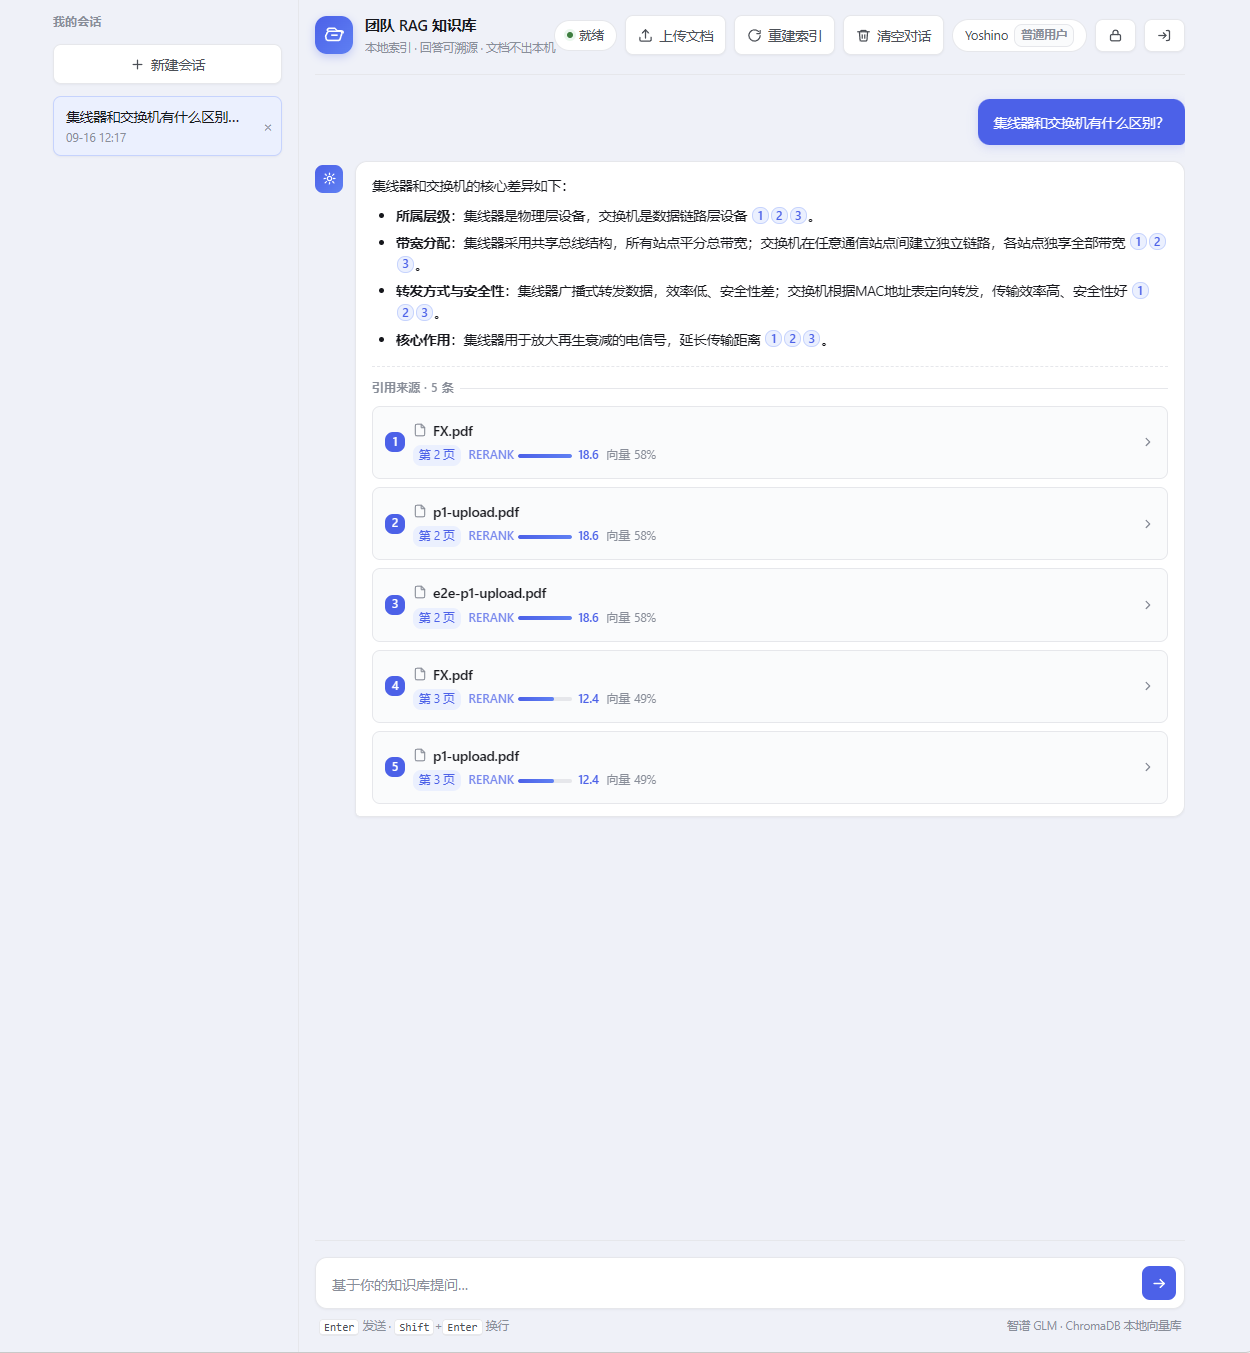
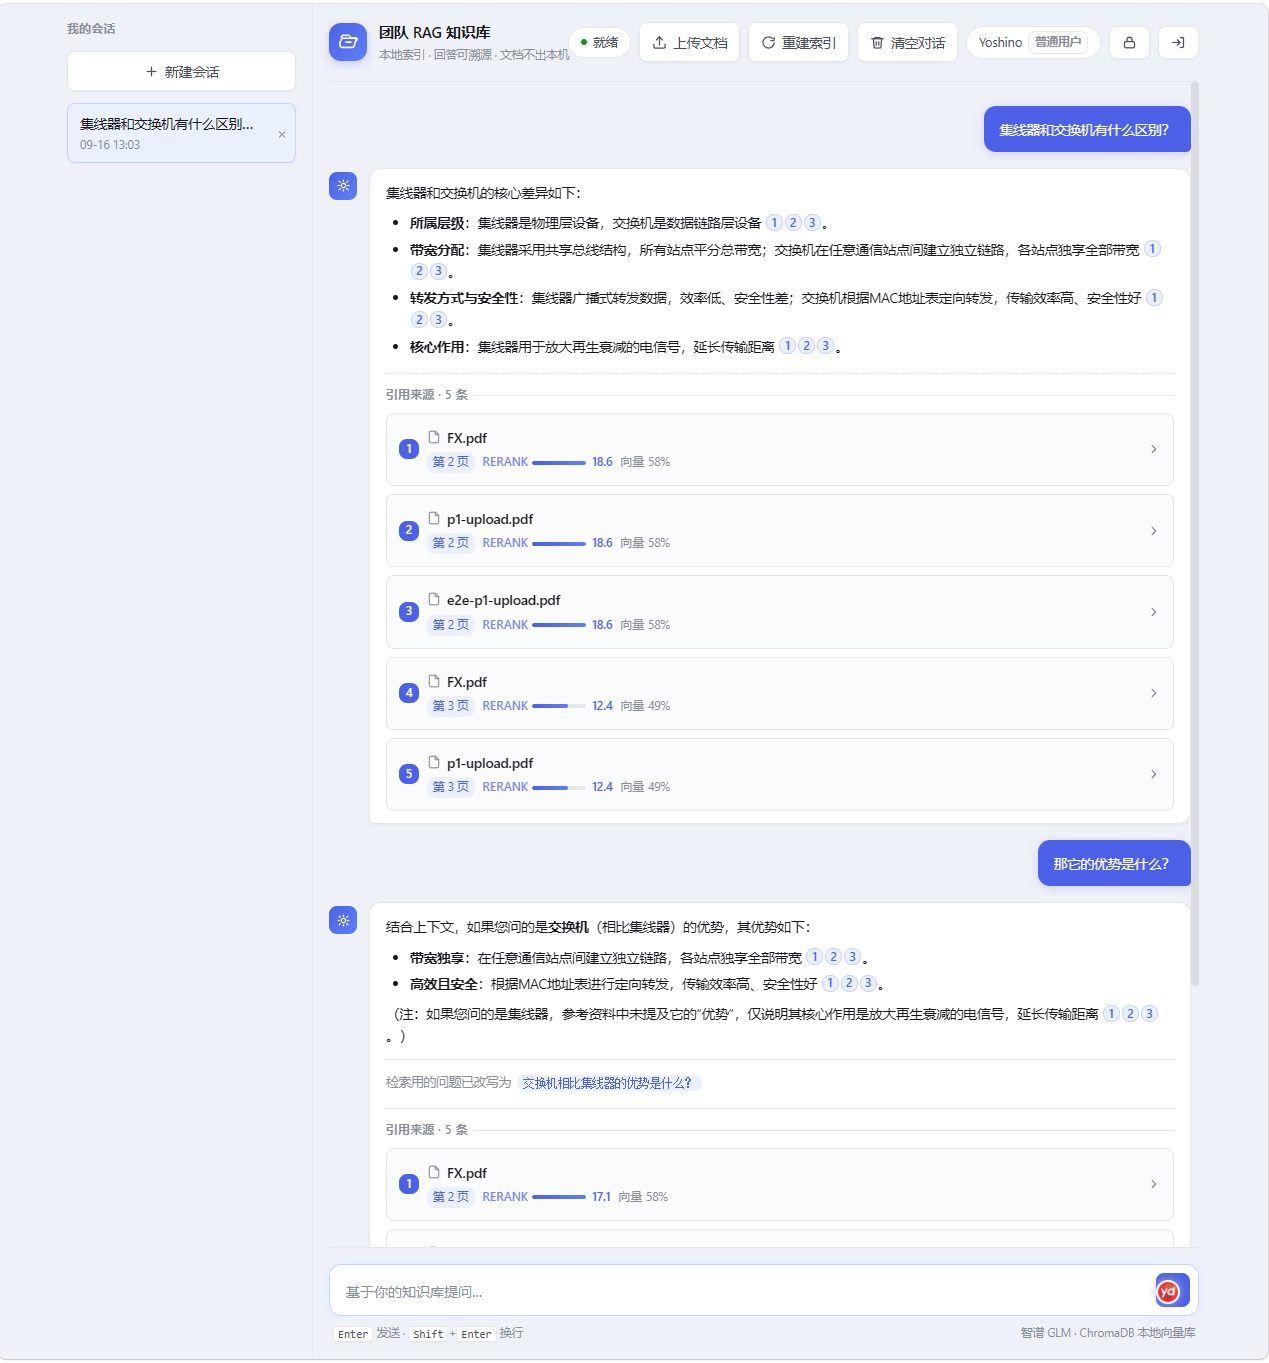
docs: README 演示文案与新截图对齐（并新增 backlog T9 记录"幽灵文档"）
新截图（`docs/demo.png`）的引用来源列出了**三份**文件（`FX.pdf` + `p1-upload.pdf` +
`e2e-p1-upload.pdf`），而 README 写的是「同一份 PDF（`FX.pdf`）上连续两问」——
文案与画面不符。改成按画面说话：

    上图是真实运行效果 —— 在一个含 `FX.pdf` 的知识库上连续两问：先问「集线器和交换机有什么区别？」，
    再**用指代追问**「那它的优势是什么？」。知识库里不止一份文档，所以引用来源会列出多份文件。

顺带排查了 README 其余位置：只有这一处写了演示场景（图片 alt 是「界面效果」、无场景断言；
`MAX_UPLOAD_SIZE` 那行里的"同一份预算"是上传体积，与演示无关，未动）。
另一处「引用来源 · 5 条」的**具体条数**我无法核对新图（模型看不了图），已软化为不带数字的
「引用来源」，避免把未验证的数字写死在文档里。

**守卫一条未碰**：`tests/test_docs.py::test_readme_demo_section_matches_screenshot` 要求的
六个功能词（集线器 / 交换机 / 改写 / RERANK / 向量 / 页码）逐条复核仍在同一小节内；
图片尺寸守卫（合法 PNG 且 ≥800×600）对新图同样通过。

同时把这次发现记进 `docs/optimization-backlog.md`（两仓库同构）作为 **T9**：
所谓"E2E 残留文件"其实**不在磁盘上**（清单与 `data/users/*` 里只剩 `FX.pdf`），
残留的是**向量库里的旧分块** —— 实测 `source` 元数据 `FX.pdf` 18 条 / `p1-upload.pdf` 6 条 /
`e2e-p1-upload.pdf` 6 条，于是引用来源会显示已不存在的文件。
应用自己的删除路径是清向量的（`documents.delete_document`、`ingest` 重灌前都调
`collection.delete(where={"source": ...})`）；根因是**绕过应用的清库**漏了
`storage/chroma.sqlite3`。按用户要求：**不动那两个工作区文件**，只登记问题。

只改文档与截图，无代码/测试改动；全量 p1 492 passed、p2 715 passed。

diff --git a/docs/optimization-backlog.md b/docs/optimization-backlog.md
@@ -36,6 +36,7 @@
 | T7 ✅ | rag `src/admin_api.py:159-181`；daa `src/admin_api.py:150-172`；rag `tests/test_admin_api.py:221-235` | 重置口令走 `payload.password` 分支时只校验长度 ≥6（`PasswordReset`），既不查强度、也不置 `must_change_password`，与 `create_user` 的「一次性口令必须首登改密」承诺不一致；测试 `test_reset_password_with_explicit_password` 把"显式口令立即生效"钉死 | 「管理员设的口令是一次性的」这条安全属性在重置路径上失效，管理员图省事设 `123456` 会长期有效——建议重置一律置 `must_change_password=True`（或至少跑 `password_strength_problem`），并同步改这条测试的断言。 |
 | T8 | daa `src/server.py:374-381`；`starlette/responses.py`（`FileResponse` 按扩展名猜 `media_type`）；daa `src/sandbox/image/Dockerfile:69`、`storage/session/artifacts/region_sales_bar.html` | `/api/artifact/{name}` 用 `FileResponse` 原样返回产物，`.html` 会被猜成 `text/html` **内联**返回，且全仓没有任何 `Content-Security-Policy` / `X-Content-Type-Options` / `Content-Disposition`（grep `add_middleware` 零命中） | 产物由模型生成的代码写入 `/out`（其输入又来自不可信的 CSV 内容），仓库里已经存在真实 `.html` 产物；任何人直接打开 `/api/artifact/x.html` 就在应用**同源**执行脚本，可读走 `localStorage.auth_token`（前端 `web/index.html:548,1088`）并发往外网——**待确认**可达性：前端只把产物渲染成 `<img>`，没有自动生成的链接，需要用户手输/粘贴 URL；即便如此也建议非图片类产物一律加 `Content-Disposition: attachment` + `nosniff`。 |
 
+| T9 | rag `storage/chroma.sqlite3`（清库流程漏了它）；`scripts/e2e_real.ps1`；对照 `src/documents.py:125`、`src/ingest.py:113,144` | **被删/被替换的文档仍能被检索到**（幽灵文档）：清单与磁盘上都已没有 `p1-upload.pdf` / `e2e-p1-upload.pdf`，但向量库里还留着它们的旧分块 —— 实测 `source` 元数据：`FX.pdf` 18 条、`p1-upload.pdf` 6 条、`e2e-p1-upload.pdf` 6 条；后果是**引用来源里会显示已不存在的文件**（README 的效果图就带着这两个名字，见 `docs/demo.png`） | 应用自己的删除路径其实**是清向量的**（`documents.delete_document`、`ingest` 重灌前都调了 `collection.delete(where={"source": ...})`）；根因是**绕过应用的清库**：轮换凭证时删了 `app.db` / `manifests/` / `data/users/`，**唯独没删 `storage/chroma.sqlite3`**（E2E 的上传把这个状态制造了出来）。建议①把向量库补进清库清单（连同 `chroma/` 目录）；②启动时用 manifests 与向量库对账，清掉"清单里没有、向量库里还有"的 `source` 并打日志 —— 这样将来任何绕过应用的删除都不会留下幽灵文档。附带：`scripts/e2e_real.ps1` 跑完应清掉自己上传的文档与向量（或改用一次性临时用户/独立库）。 |
 ---
 
 ## 二、健壮性（失败处理与边界情况）
